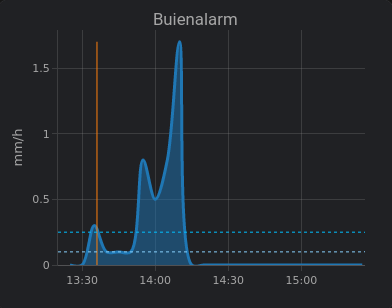
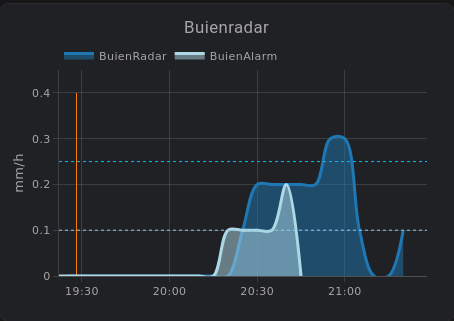
readded buienalarm, and graph with both

Changed region(s): [[0.0612, 0.0292, 0.949, 0.9351], [0.0306, 0.4091, 0.1224, 0.6136], [0.0612, 0.263, 0.1224, 0.3214]]

diff --git a/README.md b/README.md
@@ -2,7 +2,7 @@
 
 Created this for my own use, because I wasn't happy with the available options.
 
-Note that data is used from [buienradar](https://www.buienradar.nl), I have no connection whatever with buienradar, just using the open api as made available by buienradar. This setup basically mimicks the buienalarm app, which is exactly the intended idea ;-)
+Note that data is used from [buienradar](https://www.buienradar.nl) and [buienalarm](https://www.buienalarm.nl), I have no connection whatever with buienradar or buienalarm, just using the open api as made available by both. This setup basically mimicks the buienalarm app, which is exactly the intended idea ;-)
 
 **This is working on my homeassistant environment, that's it. Shared for testing and usage at your own risk!**
 
@@ -20,7 +20,7 @@ This setup adds a [RESTful integration](https://www.home-assistant.io/integratio
 
 ## Setup of Sensors
 
-Copy `buienradar.yaml` and ensure the file is read from your `configuration.yaml`. Eg, drop the file in `/config/packages/` and use the `config` lines below to include the `packages` directory:
+Copy `buienradar.yaml` and/or `buienalarm.yaml` and ensure the file is read from your `configuration.yaml`. Eg, drop the file in `/config/packages/` and use the `config` lines below to include the `packages` directory:
 
 ```yaml
 homeassistant:
@@ -33,14 +33,11 @@ The integration will automatically use your Home zone `zone.home` location to pu
 
 Adding the file in your config creates sensors:
 
-| Sensor                            | Attribute | Unit            | Comment                                                                           |
-| --------------------------------- | --------- | --------------- | --------------------------------------------------------------------------------- |
-| `sensor.buienradar_api`           | n.a.      | api poll result |
-| `sensor.buienradar_precipitation` | n.a.      | mm/h            | the sensor itself holds the precipitation intensity, attributes hold the api data |
-| `sensor.buienradar_precipitation` | `precip`  | n.a.            | table with precipitation values per period `delta`                                |
-| `sensor.buienradar_precipitation` | `start`   | timestamp       | start time of `precip` table                                                      |
-| `sensor.buienradar_precipitation` | `delta`   | seconds         | measurement period of `precip` table                                              |
-| `sensor.buienradar_expected`      | n.a.      | Bool            | returns True when rain expected next 4 to 6 `delta` periods                       |
+| Sensor                        | Attribute          | Unit                                                                                                     | Comment                                                                           |
+| ----------------------------- | ------------------ | -------------------------------------------------------------------------------------------------------- | --------------------------------------------------------------------------------- |
+| `sensor.buien*_api`           | `precip`, `start`, `delta` | n.a. | api poll result, for buienradar the api output, for buienalarm the api status, data stored in attributes 
+| `sensor.buien*_precipitation` | n.a.               | mm/h                                                                                                     | the sensor itself holds the precipitation intensity, attributes hold the api data |
+| `sensor.buien*_expected`      | n.a.               | Bool                                                                                                     | returns True when rain expected next 4 to 6 `delta` periods                       |
 
 ## Setup of Graph
 
